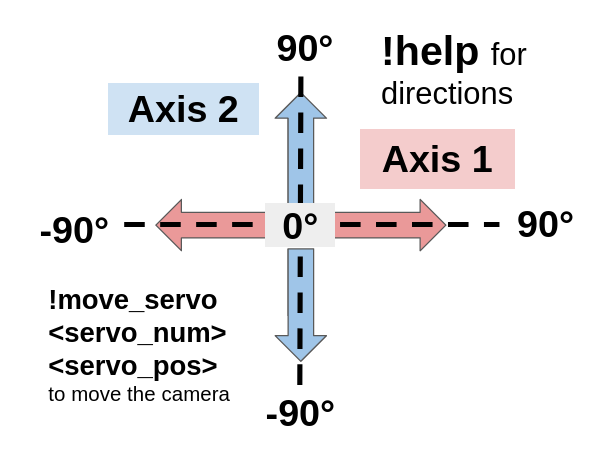
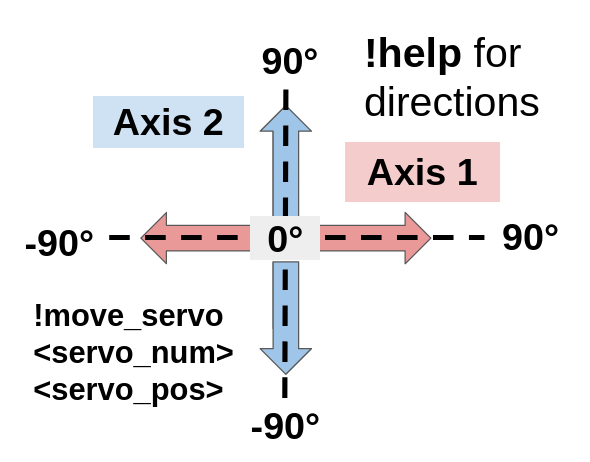
Updated axis image to make it more clear what functions exist. Switched back to previous crf value. Changed some behavior of twitchbot for [-90:90] range.

Changed region(s): [[0.0305, 0.0613, 0.9153, 0.9497], [0.061, 0.6433, 0.3966, 0.8884], [0.8542, 0.4595, 0.9763, 0.5514]]

diff --git a/twitch_cam/twitch_bot_stream.py b/twitch_cam/twitch_bot_stream.py
@@ -22,8 +22,8 @@ class TwitchBotStream(Node):
         self.servo_pos_sub_ = self.create_subscription(ServoPos, "/servo_position", self.position_callback, 10)
         self.get_logger().info("CV Test has been started.")
         self.ffmpeg_process = None
-        self.servo1_pos = 90
-        self.servo2_pos = 90
+        self.servo1_pos = 0 # Starts at origin
+        self.servo2_pos = 0 # Starts at origin
 
     # Define a callback in order to get information about the position of the servo --> put it in the image_callback
     def position_callback(self, msg):
@@ -45,8 +45,8 @@ class TwitchBotStream(Node):
             axis_img = cv.imread(image_path)
 
             # Define the scaling factors
-            scale_x = 0.25  # Scale factor for width
-            scale_y = 0.25    # Scale factor for height
+            scale_x = 0.30  # Scale factor for width
+            scale_y = 0.30  # Scale factor for height
 
             # Calculate the new dimensions
             new_width = int(axis_img.shape[1] * scale_x)
@@ -111,7 +111,7 @@ class TwitchBotStream(Node):
                     # .input('pipe:', format='rawvideo', pix_fmt='bgr8', s=f'{cv_image.shape[1]}x{cv_image.shape[0]}')
                     # .input('pipe:', format='mjpeg', pix_fmt='bgr8', s=f'{cv_image.shape[1]}x{cv_image.shape[0]}')
                     .input('pipe:', format='image2pipe', framerate='30', vcodec='mjpeg', pix_fmt='bgr8') 
-                    .output(stream_url, format='flv', vcodec='libx264', pix_fmt='yuv420p', preset='ultrafast', tune='zerolatency', b='3M', g='30', crf='18')
+                    .output(stream_url, format='flv', vcodec='libx264', pix_fmt='yuv420p', preset='ultrafast', tune='zerolatency', b='3M', g='30', crf='20')
                     .overwrite_output()
                     .run_async(pipe_stdin=True)
                 )

diff --git a/twitch_cam/twitch_bot.py b/twitch_cam/twitch_bot.py
@@ -50,13 +50,19 @@ class TwitchBot(Node):
                     if servo_num == 1:
                         servo1_request = ServoMotion.Request()
                         servo1_request.servo_number = 1
+                        
+                        # In the current paradigm of the servo, [Servo 1 Position = 0 --> to the right [90], 180 --> to the left] (in camera orientation)
+                        # Add 
                         servo1_request.servo_pos = servo1_pos
+
                         print("SERVO 1 GO!")
                         future = self.client.call_async(servo1_request)
                     elif servo_num == 2:
                         servo2_request = ServoMotion.Request()
                         servo2_request.servo_number = 2
                         servo2_request.servo_pos = servo2_pos
+
+                        # In the current paradigm... Servo 1 Position = 0 --> Up [90], Servo 1 Position = 180 --> Down [-90]
                         print("SERVO2 GO!")
                         future = self.client.call_async(servo2_request)
 
